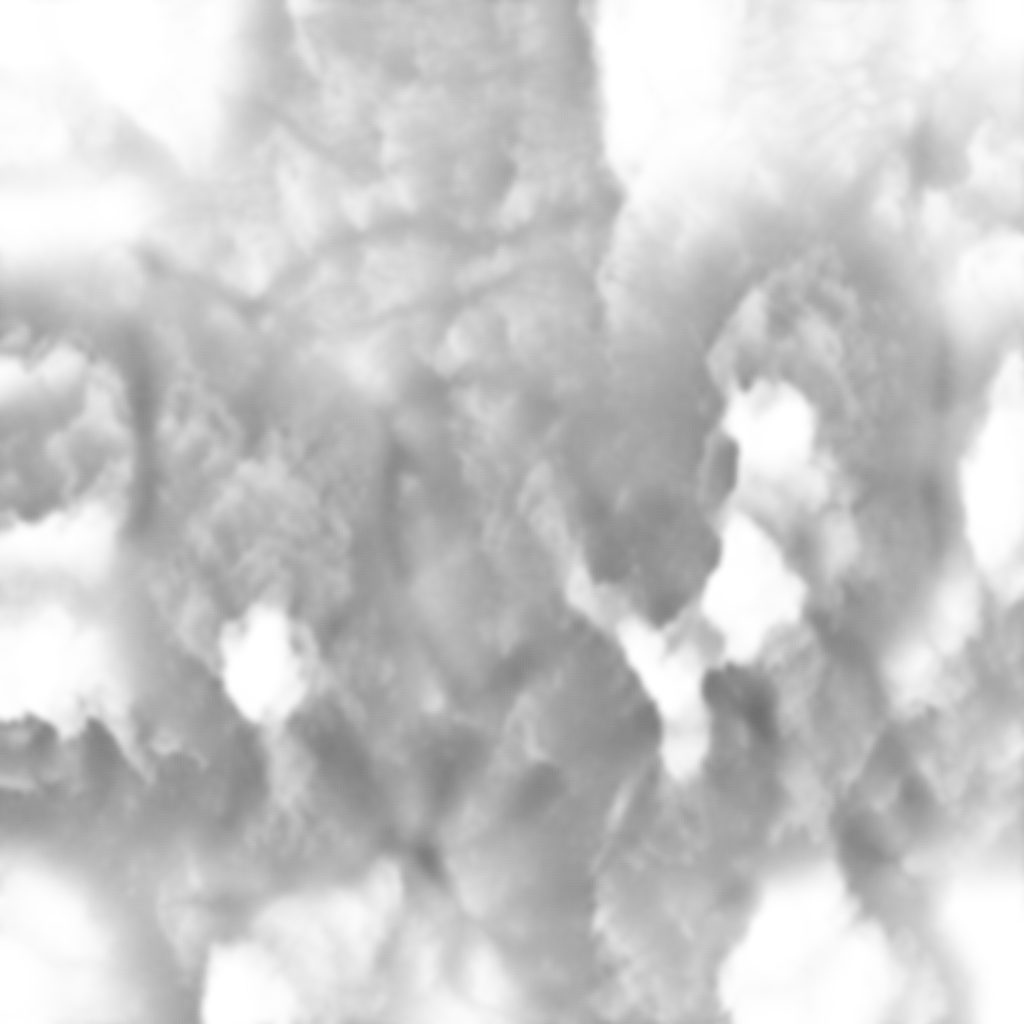
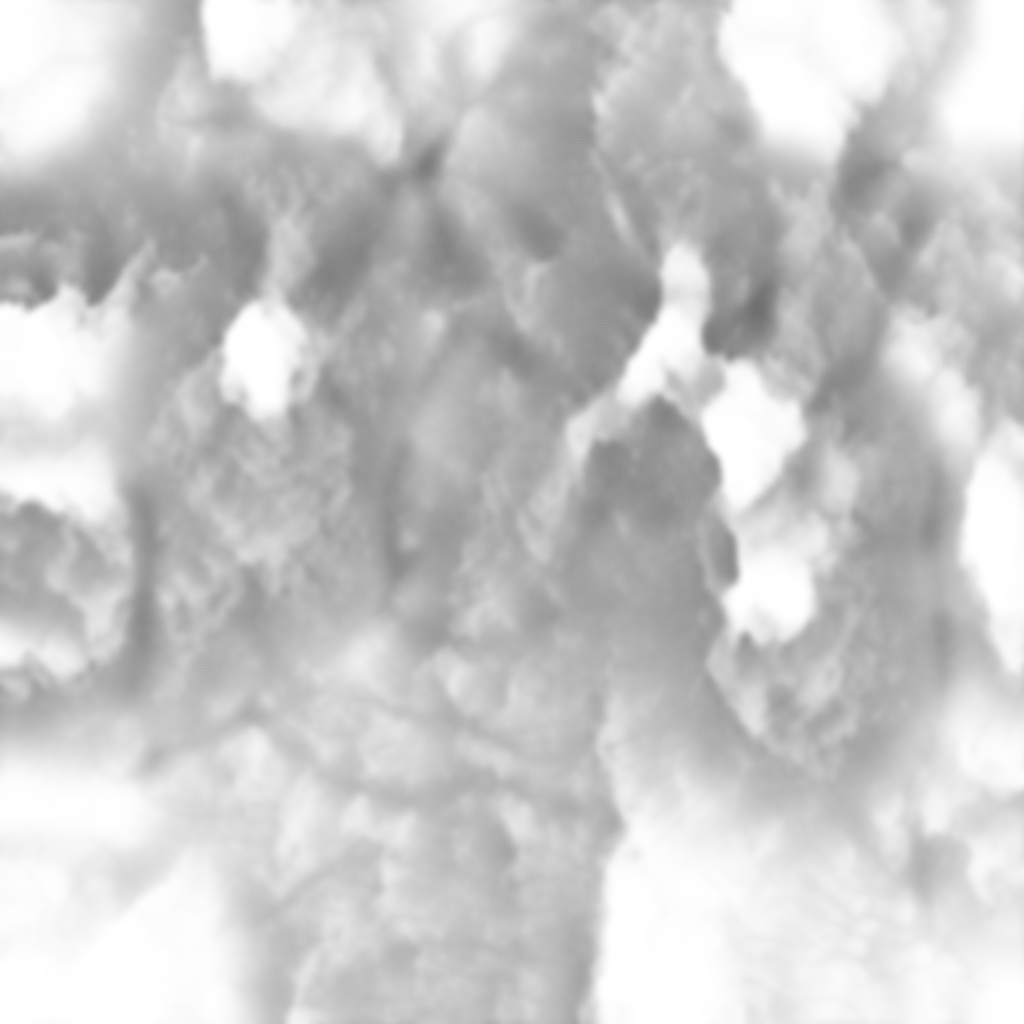
ao map

diff --git a/examples/hello-world-ts/src/App.tsx b/examples/hello-world-ts/src/App.tsx
@@ -31,7 +31,7 @@ function Terrain() {
     "/Cliffs_02/Rock_DarkCrackyCliffs_norm.png",
     "/Rock_04/Rock_sobermanRockWall_col.jpg",
     "/Rock_04/Rock_sobermanRockWall_norm.jpg",
-    `/heightmap.png`,
+    `/heightmap@0.5.png`,
     `/normalmap.png`,
     `/splatmap_00.png`,
     `/splatmap_01.png`
@@ -95,18 +95,7 @@ function Terrain() {
   const clif = {
     diffuse: t[7],
     normal: t[8],
-    normalStrength: 0.25,
-    tint: new Vector4(1.5,1.5,1.5,1),
-    trilinear: true,
-    gridless: true,
-    repeat: 400,
-    saturation: 0.5,
-  };
-
-  const rock = {
-    diffuse: t[5],
-    normal: t[6],
-    normalStrength: 0.5,
+    normalStrength: 0.75,
     tint: new Vector4(1.5,1.5,1.5,1),
     trilinear: true,
     gridless: true,
@@ -114,11 +103,27 @@ function Terrain() {
     saturation: 0.5,
   };
 
+  const rock = {
+    diffuse: t[5],
+    normal: t[6],
+    normalStrength: 0.75,
+    tint: new Vector4(1.5,1.5,1.5,1),
+    trilinear: true,
+    gridless: true,
+    repeat: 100,
+    saturation: 0.5,
+  };
+
   // TODO PRE RELEASE: Add AO map!!!!!!!!!!!!!!!!
 
   return textures ? (
     <mesh rotation={[-1*Math.PI/2,0,-3.35*Math.PI/2]} position={[0,0,0]}>
-      <planeBufferGeometry args={[1024, 1024, 1024 * 1.0, 1024 * 1.0]} />
+      <planeBufferGeometry args={[1024, 1024, 1024 * 1.0, 1024 * 1.0]} ref={geometry => {
+        if(geometry){
+          geometry.attributes.uv2 = geometry.attributes.uv.clone();
+          geometry.needsUpdate = true;
+        }
+      }} />
       <TerrainMaterial
         splats={[t[11], t[12]]}
         surfaces={[rock, clif, mud, grass1, grass2, mud, mud]}
@@ -127,9 +132,10 @@ function Terrain() {
         displacementScale={100.0 }
         normalScale={[1,1]}
         orientation={[-1,1]}
-        envMapIntensity={0.35}
+        envMapIntensity={0.5}
         metalness={0.5}
-        // aoMap = {t[0]}
+        aoMap = {t[0]}
+        aoMapIntensity={0.5}
         // roughness={0.8}
       />
     </mesh>
@@ -143,7 +149,7 @@ function App() {
       {/* <Stats /> */}
       <OrbitControls />
       <fog attach="fog" args={['#9fdced', 0, 2000]} />
-      <ambientLight intensity={0.25} />
+      <ambientLight intensity={0.5} />
       <Suspense fallback={<Progress />}>
         <Environment preset="park" background={false} />
         <Skybox fog={false} />
